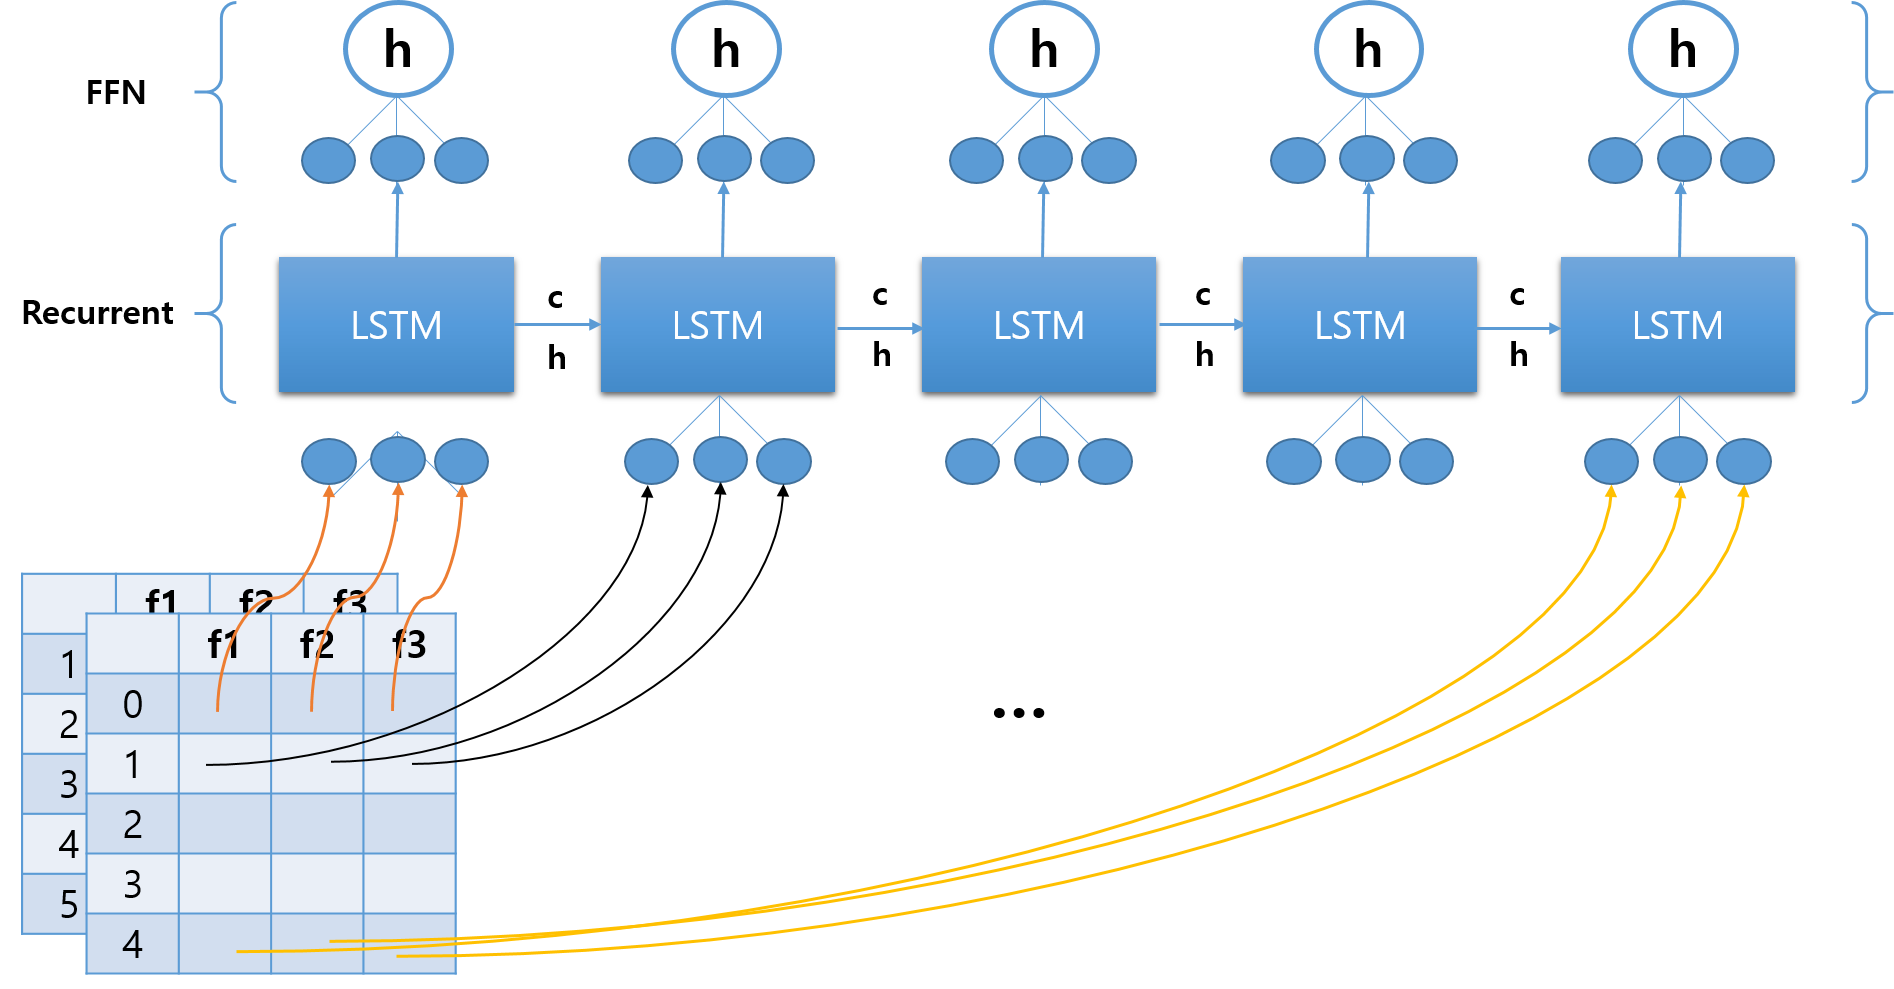
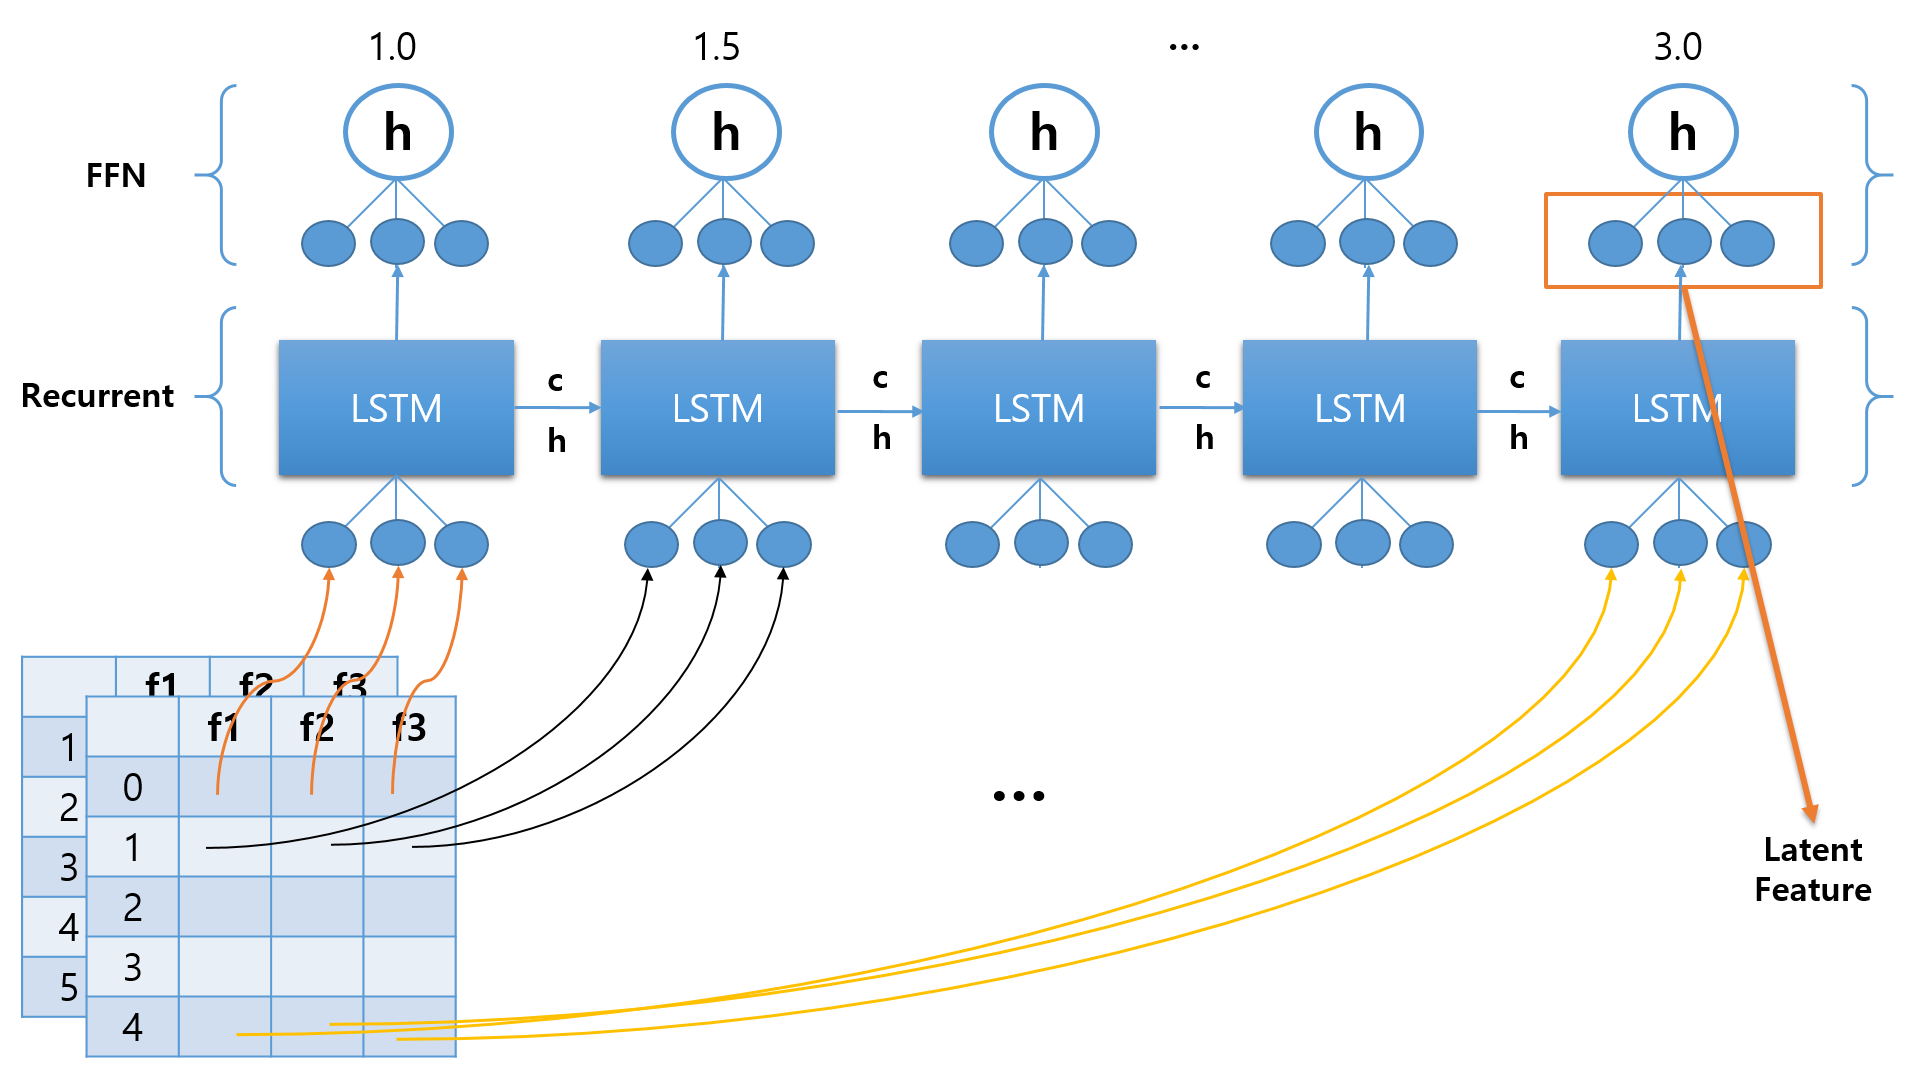
lecture 업로드

diff --git a/_posts/2020-07-01-Lecture-03-LSTM-03.md b/_posts/2020-07-01-Lecture-03-LSTM-03.md
@@ -1,6 +1,6 @@
 ---
-title:  "[DL] 순환신경망-LSTM_3. Sine곡선 예측"
-excerpt: "<<Neural Network>> 각각의 유형 별로 Sine곡선을 시계열로 예측하는 단방향 LSTM 모델을 구현해 보자."
+title:  "[DL] LSTM_3. 단방향 모델 구현"
+excerpt: "<<Neural Network>> 단방향 LSTM 모델을 구현하여 Sine 함수를 시계열로 예측해 보자."
 toc: true
 toc_sticky: true
 categories:
@@ -20,7 +20,7 @@ last_modified_at: 2020-07-01
 
 <sup>Tensorflow : 2.2.0</sup>
 
-# _Sine 곡선  시계열 예측_
+# _단방향  LSTM 구현_
 
 
 
@@ -158,8 +158,6 @@ model.compile(loss='mse', optimizer=Adam(lr=0.01))
 
 
 
- `Input` 층에서는 `D0`축의 수를 설정해 줄 수도 있지만, 실제 몇 개인지 모를 경우도 있으므로 `None`으로 설정하자.
-
  모델 구조를 확인하면 다음과 같다.
 
 
@@ -181,6 +179,41 @@ Non-trainable params: 0
 _________________________________________________________________
 None
 ```
+
+
+
+*`Latent Feature` 확인하기*
+
+
+
+ FFN의 입력으로 올라가기 위해 활용될 `Latent Feature`를 확인하고 싶다면, 다음의 코드를 추가하자.
+
+```python
+# latent 모델 생성
+latent = Model(x_Input, x_Lstm)
+latent_feature_ex = latent.predict(x[0].reshape(1, 20, 1))
+print(f"Latent Feature: {latent_feature_ex}") # 차원 (20, ) 벡터 나옴.
+```
+
+ `Latent Feature`는 LSTM의 출력이자 FFN의 입력이므로, 원래의 입력 데이터를 받아 LSTM 층을 거쳐 나온 벡터가 바로 `Latent Feature`이다. 
+
+ `Latent Feature`를 출력하는 모델을 같이 생성하고, `.predict`를 통해 결과를 확인하면 다음과 같다.
+
+```python
+Latent Feature: [[-0.15437411  0.09811269 -0.06606248 -0.16670185  0.11857421  0.03450212
+   0.09432313 -0.02546505  0.07041353 -0.01460967  0.01453727  0.09675641
+   0.15000826 -0.15780826 -0.06214479  0.1056202  -0.09427217 -0.03775409
+  -0.10479715  0.0232797   0.12839638  0.11829324 -0.06036636 -0.08706245
+  -0.0134191   0.12812625  0.08649176 -0.04048675 -0.0753432   0.0574959
+   0.00338942  0.17463613  0.09240186 -0.05440873  0.05007684  0.14306481
+   0.08155994  0.05440356  0.0579774   0.00674061 -0.00307704 -0.08242744
+  -0.01699892 -0.14912902  0.07336432  0.08721713  0.00470186  0.01463581
+  -0.16035978  0.05487374]]
+```
+
+
+
+ 위의 feature가 FFN으로 올라가서 `Dense` 층을 거치게 된다.
 
 
 
@@ -332,7 +365,7 @@ plt.show()
 
  확실히 `n_step`의 길이가 작을수록 이후 데이터 예측이 직전(*혹은* 최근)의 패턴에 영향을 많이 받는 듯하다.  `n_step`이 클수록 이전의 데이터에 대해 규칙적으로 학습했기 때문인 것으로 보인다.
 
-  이것이 *꼭*  좋은지는 모르겠다. 예컨대, 주식 시장 상황을 생각해 보자. 잡음 제거하고, 추세 잘 예측해서 너무나도 규칙적인 패턴을 얻고, 그 결과를 바탕으로 주가를 예측할 수 있을 것이다. 그런데 예상치 못한 잡음*(~~지난 번 북한에서 연락사무소 폭발한 것처럼, 혹은 지금의 코로나처럼~~)*이 생긴다면, 꼭 `n_step`을 길게 잡아서 규칙적인 패턴을 학습하는 것만이 좋다고 볼 수는 없을 것이다. *(~~어떻게 보면 자기 예전 데이터에 너무 과적합되는 것이라고도 할 수 있을 것 같다~~)*
+  이것이 *꼭*  좋은지는 모르겠다. 예컨대, 주식 시장 상황을 생각해 보자. 잡음 제거하고, 추세 잘 예측해서 너무나도 규칙적인 패턴을 얻고, 그 결과를 바탕으로 주가를 예측할 수 있을 것이다. 그런데 예상치 못한 잡음*(~~혹은 지금의 코로나처럼~~)*이 생긴다면, 꼭 `n_step`을 길게 잡아서 규칙적인 패턴을 학습하는 것만이 좋다고 볼 수는 없을 것이다. *(~~어떻게 보면 자기 예전 데이터에 너무 과적합되는 것이라고도 할 수 있을 것 같다~~)*
 
  위와 관련해 한 가지 더 생각할 수 있는 것은, 애초에 데이터를 구성할 때 (`1.1.` 단계) 잡음과 추세를 어떻게 설정하느냐에 따라 달라질 수도 있을 것 같다. 그런데 또 여기에 대해 너무 모델링을 하다 보면, 그것은 머신러닝의 LSTM 분석이라기 보다는 통계학적인 시계열 분석 모델링이 되어버리지 않을까 싶기도 하다. 
 
@@ -356,7 +389,7 @@ plt.show()
 
 
 
-## 1.2. Many-to-Many
+## 2. Many-to-Many
 
 
 
@@ -366,17 +399,30 @@ plt.show()
 
  첫째, 데이터 생성 함수가 변한다. 이제는 X 데이터의 시퀀스를 이루는 각각에 대해 Y 라벨 값이 나와야 하므로, Y 데이터 역시 3차원이 된다. 
 
- 둘째, 모델 layer 설정이 달라진다. `return_recursive = True` 옵션과 `TimeDistributed` 함수가 추가되었다.
+ 둘째, 모델 layer 설정이 달라진다. `return_sequences = True` 옵션과 `TimeDistributed` 함수가 추가되었다. 둘을 추가하면, LSTM이 `Many-to-Many` 방식으로 작동한다.
 
 
 
- 전체 결과 해석 등을 위와 같은 방식으로 하지는 않는다. 다만 전체 코드를 올려 놓고, 1) 전체 코드 흐름을 파악하고, 2) 추가된 옵션이나 바뀐 부분이 의미하는 것이 무엇인지 파악하는 데에 더 주안점을 둔다.
+ 전체 결과 해석 등을 위와 같은 방식으로 하지는 않는다. 다만 전체 코드를 올려 놓고, 1) 전체 코드 흐름을 파악하고, 2) 추가된 옵션이나 바뀐 부분이 의미하는 것이 무엇인지 파악하는 데에 더 주안점을 둔다. 
 
 
+
+ 바뀐 부분의 의미를 `naive`하게 설명하면 다음과 같다.
+
+* `return_sequences = True` : 중간 단계마다 모두 sequence들을 반환한다. 그러면 LSTM 뉴런이 중간 값을 모두 포함하고 있다.
+* `TimeDistributed` : 각 단계마다 Feed Forward 네트워크를 모두 둔다. 각 시간축마다 모두 feed forward 네트워크를 작동시킨다.
+
+
+
+  위와 같이 중간 중간에 나와야 할 y값을 알려 주어야 그래야 중간 중간에 생성될 `Feed Forward` 네트워크가 작동할 수 있다. 이를 위해 데이터 생성 함수를 바꿔준 것이다.
+
+
+
+ 이제 전체 코드를 확인하고, 그 흐름을 파악하자.
 
 ```python
 # module import
-from tensorflow.keras.layers import Dense, Input, LSTM
+from tensorflow.keras.layers import Dense, Input, LSTM, TimeDistributed
 from tensorflow.keras.models import Model
 from tensorflow.keras.optimizers import Adam
 import numpy as np
@@ -416,8 +462,15 @@ print(f"X 데이터: {x.shape}, y 데이터: {y.shape}")
 # LSTM 모델 생성
 x_Input = Input(batch_shape=(None, n_step, 1))
 x_Lstm = LSTM(n_hidden, return_sequences=True)(x_Input) #
-x_Output = TimeDistributed(Dense(n_output))(x_Lstm) # 
+x_Output = TimeDistributed(Dense(n_output))(x_Lstm)
+
 model = Model(x_Input, x_Output)
+
+# latent feature 확인
+latent = Model(x_Input, x_Lstm)
+latent_ex = latent.predict(x[0].reshape(1, 20, 1))
+print(f"Many-to-Mant Latent Feature: {latent_ex}")
+
 model.compile(loss='mse', optimizer=Adam(lr=0.01))
 print(model.summary())
 
@@ -471,3 +524,92 @@ plt.legend()
 plt.show()
 ```
 
+
+
+ 모델 구조를 확인하면 다음과 같다.
+
+```python
+Model: "model"
+_________________________________________________________________
+Layer (type)                 Output Shape              Param #   
+=================================================================
+input_3 (InputLayer)         [(None, 20, 1)]           0         
+_________________________________________________________________
+lstm_2 (LSTM)                (None, 20, 50)            10400     
+_________________________________________________________________
+time_distributed_2 (TimeDist (None, 20, 1)             51        
+=================================================================
+Total params: 10,451
+Trainable params: 10,451
+Non-trainable params: 0
+```
+
+
+
+### 2.1. Latent Feature
+
+ `(1, 20, 50)` 형태의 `Latent Feature`가 Feed Forward 네트워크로 전달된다.
+
+ 1차원으로 평활화된 벡터가 각 시퀀스마다 20개가 있다. 그리고 그것이 hidden neuron의 수만큼 존재한다.
+
+
+
+```python
+[[[-9.25148465e-03  2.40807571e-02  4.11372073e-03 -3.08826379e-03
+   -1.34491650e-02 -3.41277313e-03  7.62031833e-03 -8.08595680e-03
+    1.16554992e-02  1.68455914e-02  1.88495149e-04 -2.30593663e-02
+    3.13225342e-03 -2.17099600e-02 -2.39688400e-02  1.60198156e-02
+   -2.57393178e-02 -8.14876799e-03 -1.92884367e-03  2.39006002e-02
+    2.29536835e-03  1.78462565e-02  1.94627307e-02  1.92031171e-02
+    2.35425308e-03 -8.14874377e-03 -2.24701185e-02  1.31234620e-02
+    1.55245094e-02  1.26299858e-02 -2.19104299e-03 -3.76234623e-03
+    2.62713619e-02  3.30625684e-04  2.60724017e-04  2.39332914e-02
+   -7.89631531e-03 -1.18797254e-02 -1.44105516e-02 -2.11090110e-02
+   -2.38088891e-02  9.61423284e-05 -8.53901822e-03 -2.33045202e-02
+   -1.40177850e-02  7.36078434e-03  1.97146405e-02  7.30795506e-03
+    1.61902774e-02  2.07320731e-02]
+    ...
+    [ 2.42188349e-02  9.41959321e-02 -9.54313055e-02  1.36666661e-02
+    2.87160967e-02 -5.24720550e-02  4.43686619e-02  1.66658945e-02
+   -1.69516597e-02  5.36630750e-02  6.01577424e-02 -1.06316186e-01
+   -1.97960623e-03 -1.38270184e-01 -2.58456543e-02  4.59064841e-02
+   -1.00109704e-01 -2.69792248e-02 -5.92217073e-02  1.43015683e-01
+   -5.04165469e-03  7.05343559e-02  7.70838261e-02  1.31910563e-01
+   -2.85066036e-03 -5.18555753e-02 -1.17357098e-01  2.91179530e-02
+    7.37582818e-02 -5.94193414e-02 -1.72935869e-03 -5.33339307e-02
+    4.59628813e-02 -3.78671288e-02 -2.63924897e-02  1.26934960e-01
+   -5.99848293e-03  2.82309651e-02 -9.85971987e-02 -8.84828866e-02
+   -1.42655551e-01  2.94372234e-02 -7.79921785e-02 -1.69591099e-01
+   -9.54225808e-02  6.44402653e-02  1.12806130e-02 -6.28129318e-02
+    1.36089191e-01  9.24586430e-02]]]
+```
+
+
+
+### 2.2. TimeDistributed() 
+
+ 기본적으로 `TimeDistributed` 함수는 그것을 사용하지 않았을 때, 즉, `Many-to-One` 방식에서라면( `return_sequences=False`일 때이다. ) 마지막 단에서 한 번에 계산되었을 오류를 각 시퀀스 단계로 분배시키라는 의미이다.
+
+ 매 스텝마다 cost가 계산되고 하위 스텝으로 오류가 전파된다. 각각의 sequence input에 대해서 결과를 돌려 주고, 각 출력(`Many`) 별로 cost를 계산하겠다는 게 `Many-to-Many` 방식이 의도하는 계산 과정이다. 
+
+`TimeDistributed` 함수를 사용하지 않아도 돌아 가기는 한다. 모델의 구조를 파악하면 쉽게 알 수 있다.
+
+그러나 의미가 달라진다. 각 `sequence`에 대한 각각의 출력 결과가 나오는데, 마지막에 다 몰려 버린다. `return_sequences=True`로 인해 LSTM의 중간 출력이 모두 사용되지만, `TimeDistributed()`가 사용되지 않았기 때문에 오류가 시간 축으로 분산되지 않는다.
+
+ 모든 중간 출력에 대해 마지막 스텝에서 cost가 계산되고, 마지막 스텝에서부터 계산된 오류가 전파된다. 
+
+
+
+ 강사님의 강의 자료를 참고하자.
+
+|                 잘된 사용                  |                잘못된 사용                 |
+| :----------------------------------------: | :----------------------------------------: |
+| ![img]({{site.url}}/assets/images/2-1.gif) | ![img]({{site.url}}/assets/images/2-2.gif) |
+
+
+
+
+
+ 
+
+ 

diff --git a/_posts/2020-07-01-Lecture-03-LSTM-02.md b/_posts/2020-07-01-Lecture-03-LSTM-02.md
@@ -1,5 +1,5 @@
 ---
-title:  "[DL] 순환신경망-LSTM_2. 모델 아키텍쳐"
+title:  "[DL] LSTM_2. 모델 아키텍쳐"
 excerpt: "<<Neural Network>> 단방향 LSTM 모델 구조를 이해해 보자."
 toc: true
 toc_sticky: true
@@ -129,6 +129,28 @@ last_modified_at: 2020-07-01
 
 
 
+ LSTM에서의 `recurrent step`의 출력이자 FFN의 입력으로 들어갈 hidden layer의 벡터를 `Latent Feature`라고 한다.
+
+ 다시 처음으로 돌아가 보면, FFN 네트워크는 최초의 2차원 데이터를 받아서는 그 데이터의 시퀀스 구조를 파악할 수 없다. 그래서 RNN 혹은 LSTM 등 `recurrent` 네트워크를 활용해 시퀀스 데이터의 정보를 1차원 데이터에 함축시켜 놓고, 그 1차원 데이터를 FFN 네트워크의 입력 값으로 사용하는 것이다. 데이터의 정보와 시퀀스 흐름을 함축하고 있다는 의미로 받아들이면 된다.
+
+ *결국*  순환신경망 모델의 구조는 feature가 있고, 데이터 간 sequence를 가지고 있는 데이터를 3차원으로 만들어 sequence와 feature을 모두 분석하고, 그 정보를 1차원의 latent feature에 함축하여 FFN에 전달하는 구조다.
+
+
+
+
+
+> *참고*
+>
+>  RNN 외에, 데이터의 부분적 특징을 중시한다면, 데이터를 CNN으로 분석해서, CNN에 의해 전체 데이터를 포함한 latent feature를 만들어낼 수도 있다.
+>
+> 
+>
+> *비유*
+>
+>  RNN, CNN 등 네트워크를 감각기관이라고 보자. 감각기관에서 외부 자극을 받아들여서 정보를 함축시켜서 그걸 뇌에 전달한다. 그러면 뇌에 전달되는 정보가 latent feature다. 뇌는 이 latent feature를 분석한다.
+
+
+
 
 
 ## 2. 학습 유형 분류
@@ -178,6 +200,8 @@ last_modified_at: 2020-07-01
 
 
  중간 스텝의 결과를 모두 이용한다. 각 스텝에서 출력이 이루어질 때마다 모두 `loss`가 계산되고, 각 지점에서 모두 오류가 전파된다.
+
+ 중간 단계마다 모두 Feed Forward Network를 두는 형태이다.
 
 
 
